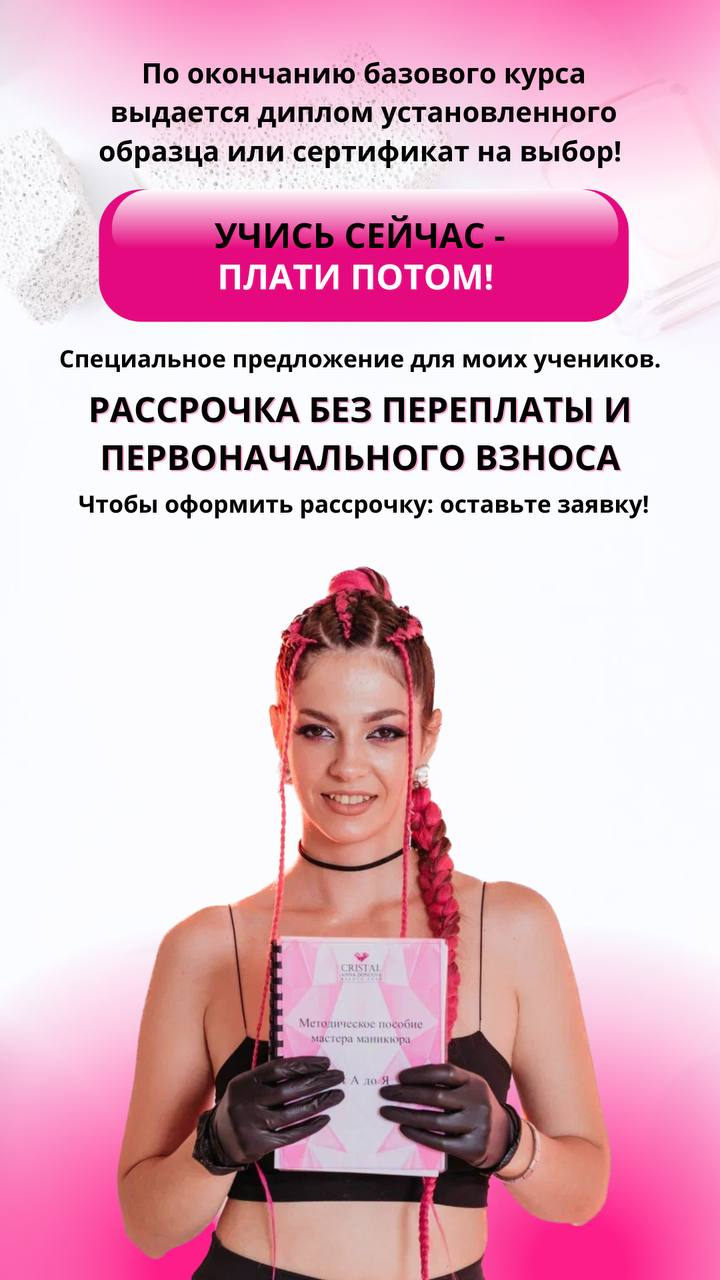
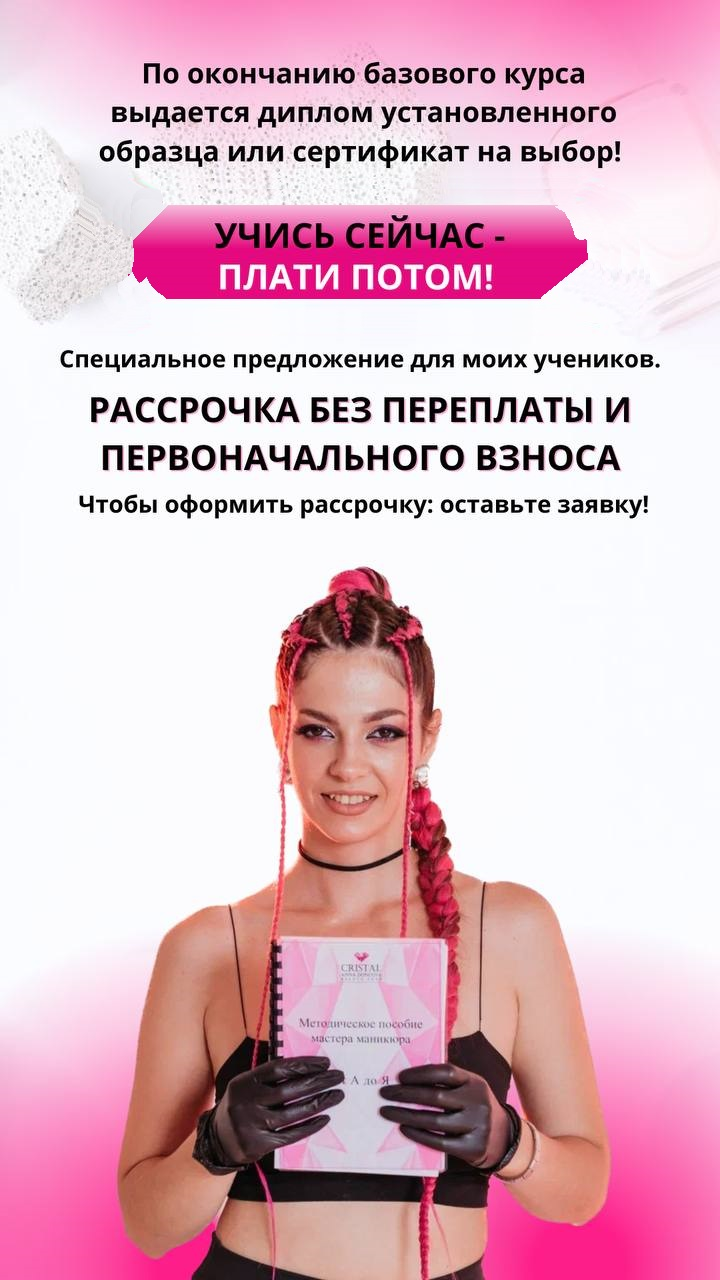
баннер

Changed region(s): [[0.1222, 0.125, 0.8861, 0.25]]

diff --git a/index.html b/index.html
@@ -214,7 +214,9 @@ h1{
 	
 
 /************tea хедер №2******************************/	
-.tea{background: var(--nice);	
+.tea{
+	display: none;
+	background: var(--nice);	
 	padding: 44px 0px 33px 0px;
 	color: black;}
 .teapot{overflow:hidden;}
@@ -226,9 +228,18 @@ h1{
 .tea_ab p{font-size:18px;}
 
 
-/**************************************************/
+/******** супер привет******************************************/
 
-
+.privet{
+	margin: 0 auto;
+	max-width: 720px; aspect-ratio:72/128;
+	background-image: url(cris/apr2.jpg);
+	background-position: top center;
+	background-size: 100%;
+	background-repeat: no-repeat;
+	background-attachment: local;
+	
+	}
 
 
 
@@ -381,16 +392,21 @@ margin-left:35px;
 .spoy1_3{text-align: left;}
 .spoy1_4{align-self: flex-end;}
 /******************************/
-
+.slider40{margin:0 auto;
+	padding: 170px 1px 1px 1px;
+	max-width: 720px;aspect-ratio:72/128;
+	min-height: 765px;max-height: 800px;
+	background-image: url(cris/apr4.jpg);
+	background-position: top center;
+	background-size: 100%;
+	background-repeat: no-repeat;
+	background-attachment: local;
+	}
+.slider41{overflow: hidden;}
 .slider43 {
   width: 600px;
   height: 568px;
 }  
-
-.slider40{background: var(--nice);padding-bottom: 33px;}
-.slider41{overflow: hidden;}
-.slider42{padding:20px 0 50px;text-align: center;}
-
 /******************************/
 /******************************/
 
@@ -439,7 +455,9 @@ border-left:0.5px solid purple;
 
 
 /************** баннер  **************/
-.baner{background-image: radial-gradient(circle, rgba(35, 82, 91) 0%, rgba(2,0,36,1) 100%);}
+.baner{
+display: none;
+background-image: radial-gradient(circle, rgba(35, 82, 91) 0%, rgba(2,0,36,1) 100%);}
 .baner02{padding: 1rem 0px 6rem 0px;font-family:sans-serif;color:white;text-align: center; 
 font-weight:700;}
 .baner03{padding: 0  0 33px;}
@@ -451,8 +469,34 @@ font-weight:700;}
 .baner09{}
 .baner10{}
 .baner11{}
-/*-----------------------------------------------------*/
-
+/*------------ cупер баннер -----------------------------------------*/
+.bann{
+	margin: 0 auto;
+	padding:188px 0 0 0;
+	max-width: 720px; aspect-ratio:72/128;
+	background-image: url(cris/apr3.jpg);
+	background-position: top center;
+	background-size: 100%;
+	background-repeat: no-repeat;
+	background-attachment: local;
+	text-align: center;
+}
+.bannbtn{
+	margin: auto;
+	cursor: pointer;
+	width:75%; height:13%;
+	b0order:3px solid purple;
+	border: none;
+	border-radius: calc(60px);
+	background-image: url(cris/apr31.jpg);
+	background-position: top center;
+	background-size: 100%;
+	background-repeat: no-repeat;
+	background-attachment: local;
+}
+@media screen and (max-width: 720px) {
+.bann{padding:25.5% 0 0 0;}
+}
 
 /**********    снежинки     ****************/
 .snowflake {/* customizable snowflake styling */
@@ -516,6 +560,11 @@ font-weight:700;}
 		</div>
 	</div>	<!-- act -->
 </header>
+
+
+<header class="privet">
+</header>
+
 
 
 
@@ -887,59 +936,66 @@ font-weight:700;}
 </div>
 
 
-<section class="wide awp">
-	<div class="container awp_1">
-		<h2 class="awp_2" style="color:black;padding-top:3rem;">Работы учениц</h2>
-		<div class="swiper-container">
+<section class="bann">
+<button class="bannbtn"
+onclick="window.location='https://api.whatsapp.com/send?phone=79179658117'"
+></button>
+
+</section>
+			
+
+<section class="slider40">
+	<div class="container slider41">
+		<div class="slider43">
 			<div class="swiper-wrapper">
 				<div class="swiper-slide" style="color:black">
 					<div>
 					Работа выпускницы курса<br> 
 					Сверхскорость
 					</div>
-				<img src="img/pic1.webp" alt="o">
+					<img src="img/pic1.webp" loading="lazy" alt="o">
 				</div>
 				<div class="swiper-slide" style="color:black">
 					<div>Работа выпускницы<br> 
 					базового курса
 					</div>
-					<img src="img/pic2.webp" alt="o">
+					<img src="img/pic2.webp" loading="lazy" alt="o">
 				</div>
 				<div class="swiper-slide">
 					<div>
 					</div>
-					<img src="img/pic3.webp" alt="o">
+					<img src="img/pic3.webp" loading="lazy" alt="o">
 				</div>
 				<div class="swiper-slide">
 					<div>
 					</div>
-					<img src="img/pic4.webp" alt="o">
+					<img src="img/pic4.webp" loading="lazy" alt="o">
 				</div>
 				<div class="swiper-slide">
 					<div>
 					</div>
-					<img src="img/pic5.webp" alt="o">
+					<img src="img/pic5.webp" loading="lazy" alt="o">
 				</div>
 				<div class="swiper-slide" style="color:black">
 					<div>Работа выпускницы<br> 
 					базового курса
 					</div>
-					<img src="img/pic6.webp" alt="o">
+					<img src="img/pic6.webp" loading="lazy" alt="o">
 				</div>		
 				<div class="swiper-slide">
 					<div>
 					</div>
-					<img src="img/pic7.webp" alt="o">
+					<img src="img/pic7.webp" loading="lazy" alt="o">
 				</div>
 				<div class="swiper-slide">
 					<div>
 					</div>
-					<img src="img/pic8.webp" alt="o">
+					<img src="img/pic8.webp" loading="lazy" alt="o">
 				</div>
 				<div class="swiper-slide">
 					<div>
 					</div>
-					<img src="img/pic9.webp" alt="o">
+					<img src="img/pic9.webp" loading="lazy" alt="o">
 				</div>		
 			</div>
 		</div>
@@ -1050,74 +1106,8 @@ font-weight:700;}
 	</div>
 </section>
 
-<section class="slider40" style="margin:0 auto;
-padding: 170px 1px 1px 1px;
-max-width: 720px;aspect-ratio:72/128;
-min-height: 765px;max-height: 800px;
-	background-image: url(cris/apr4.jpg);
-	background-position: top center;
-	background-size: 100%;
-	background-repeat: no-repeat;
-	background-attachment: local;
 
-">
-	<div class="container slider41">
 
-		<div class="slider43">
-			<div class="swiper-wrapper">
-				<div class="swiper-slide" style="color:black">
-					<div>
-					Работа выпускницы курса<br> 
-					Сверхскорость
-					</div>
-				<img src="img/pic1.webp" loading="lazy" alt="o">
-				</div>
-				<div class="swiper-slide" style="color:black">
-					<div>Работа выпускницы<br> 
-					базового курса
-					</div>
-					<img src="img/pic2.webp" loading="lazy" alt="o">
-				</div>
-				<div class="swiper-slide">
-					<div>
-					</div>
-					<img src="img/pic3.webp" alt="o">
-				</div>
-				<div class="swiper-slide">
-					<div>
-					</div>
-					<img src="img/pic4.webp" alt="o">
-				</div>
-				<div class="swiper-slide">
-					<div>
-					</div>
-					<img src="img/pic5.webp" alt="o">
-				</div>
-				<div class="swiper-slide" style="color:black">
-					<div>Работа выпускницы<br> 
-					базового курса
-					</div>
-					<img src="img/pic6.webp" alt="o">
-				</div>		
-				<div class="swiper-slide">
-					<div>
-					</div>
-					<img src="img/pic7.webp" alt="o">
-				</div>
-				<div class="swiper-slide">
-					<div>
-					</div>
-					<img src="img/pic8.webp" alt="o">
-				</div>
-				<div class="swiper-slide">
-					<div>
-					</div>
-					<img src="img/pic9.webp" alt="o">
-				</div>		
-			</div>
-		</div>
-	</div>	
-</section>
 
 
 <section class="slider50" style="margin:0 auto;
